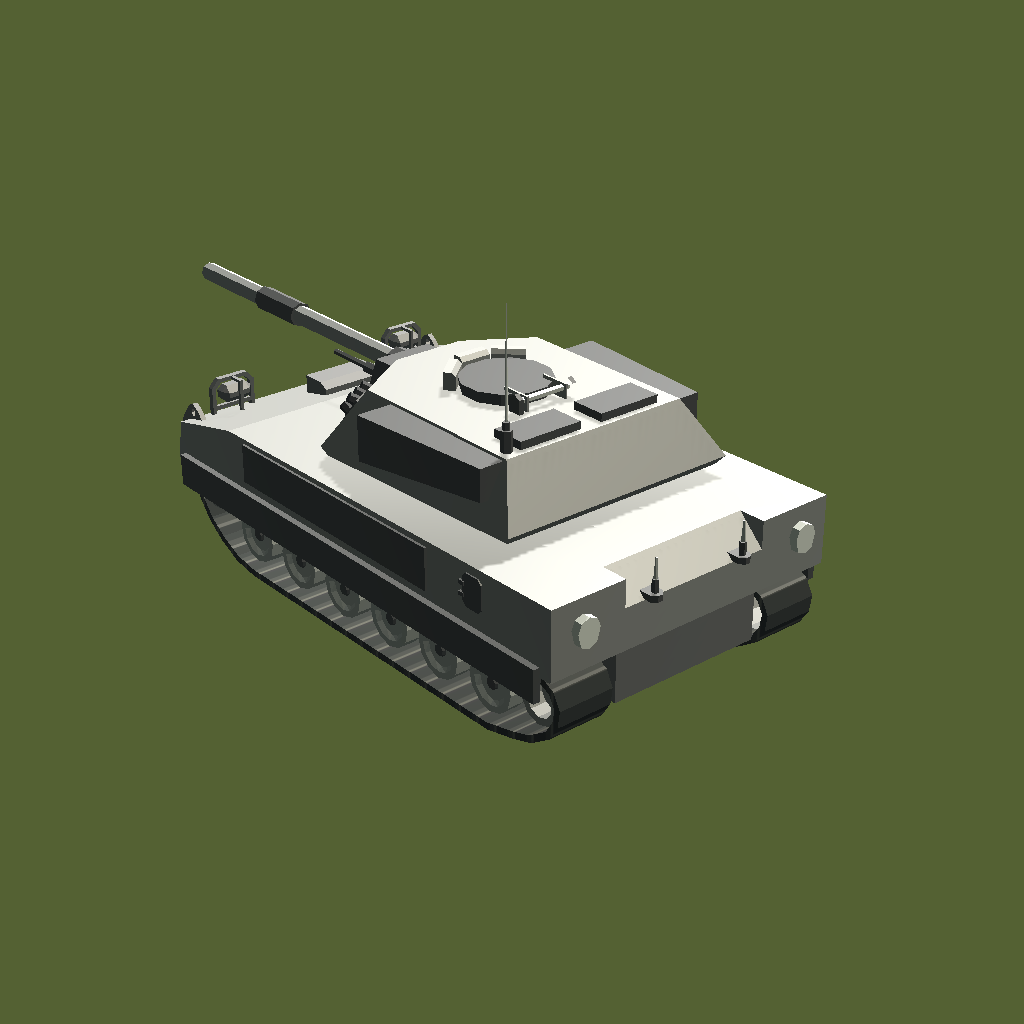
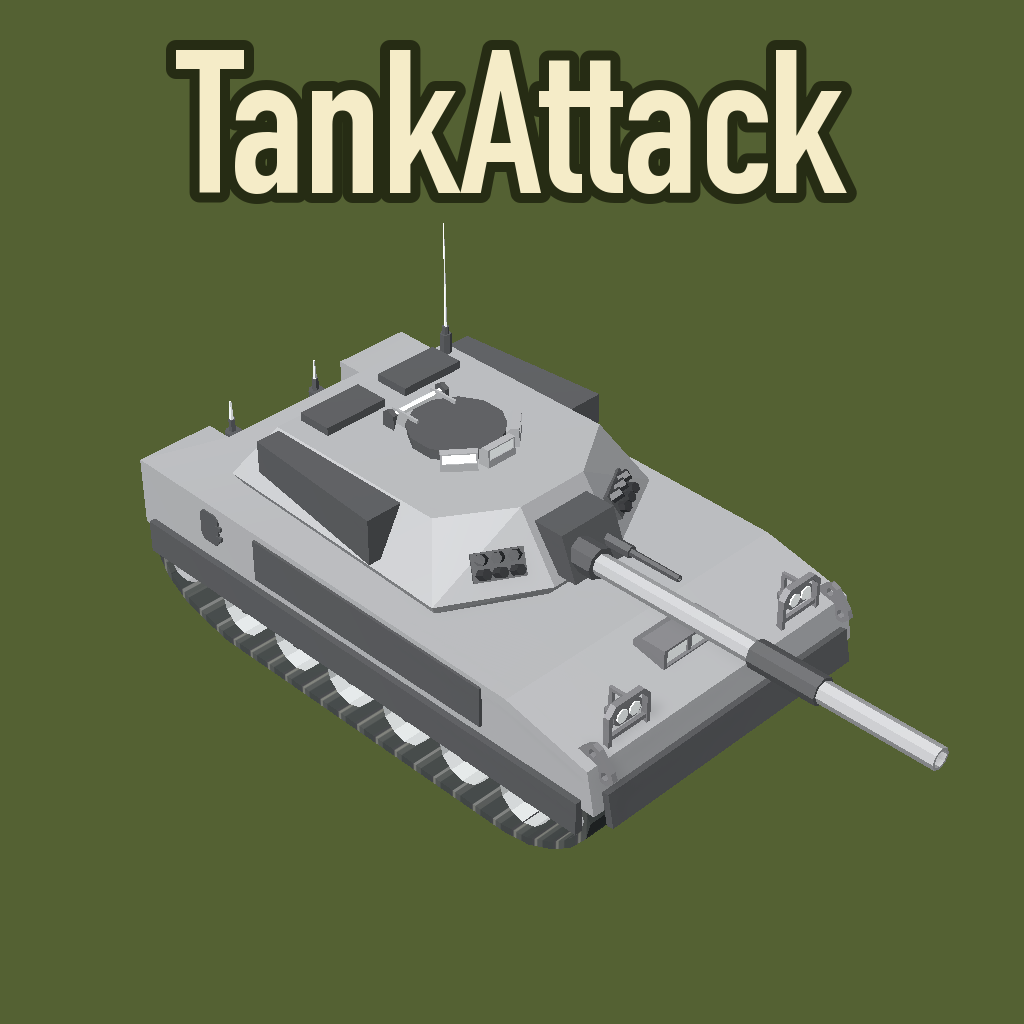
feat: 앱 아이콘을 4시 방향 탱크와 TankAttack 제목으로 교체, CLAUDE.md에 슬라이드 3번 변경 반영

diff --git a/CLAUDE.md b/CLAUDE.md
@@ -53,7 +53,7 @@ Unity 6 (`6000.5.10f1`) 탱크 슈터 게임. 게임 스크립트는 `Assets/02.
   - 자동 조준: `TurretCtrl`이 마우스 레이 둘레 `airAimRadius`(4m) 안의 공중 적을 찾으면 포탑을 그쪽으로 돌리고 `CannonCtrl.SetAutoTarget`으로 포신 각도를 자동으로 맞춘다 (현재 포탄이 중력을 받으면 `Cannon.GravityDrop`만큼 높여 잡는다). 헬기 조준과 지형 조준은 같은 `TurretCtrl.RotateToward`로 돈다. 공중 적을 벗어나면 휠 조작으로 돌아간다. 플레이어 탱크 포신 최대각은 45°다 (두 프리팹의 `CannonCtrl.maxAngle`).
 - **레이어**: `TurretCtrl`은 레이어 8 (`Terrain`)에만 레이캐스트한다 (`1 << 8`). 지형 레이어를 바꾸면 포탑 조준이 멈춘다.
 - **태그**: `Player` 태그를 `EnemyAI`와 `Item`이 사용한다. 플레이어 `Tank`에 이 태그가 있어야 한다.
-- **앱 아이콘**: `Assets/04.Images/UI/AppIcon.png` (Mk.1 탱크 렌더링)를 Default Icon과 Standalone (Windows) 아이콘 8개 크기 (1024~16)에 모두 지정했다 (`PlayerSettings.SetIcons(NamedBuildTarget.Standalone, ...)`). 설정은 `ProjectSettings.asset`에 저장되고, 제출용 Windows 실행 파일은 Windows PC에서 저장소를 클론해 빌드한다. Windows 빌드에서 아이콘이 나오는지는 아직 확인하지 못했다.
+- **앱 아이콘**: `Assets/04.Images/UI/AppIcon.png` (1024×1024, 올리브 배경에 4시 방향을 보는 Mk.1 탱크 렌더링, 위쪽에 `TankAttack` 제목. 제목은 렌더링 뒤 PIL로 `DIN Condensed Bold` 200pt, 크림색에 어두운 테두리로 그렸다)를 Default Icon과 Standalone (Windows) 아이콘 8개 크기 (1024~16)에 모두 지정했다 (`PlayerSettings.SetIcons(NamedBuildTarget.Standalone, ...)`). 설정은 `ProjectSettings.asset`에 저장되고, 제출용 Windows 실행 파일은 Windows PC에서 저장소를 클론해 빌드한다. Windows 빌드에서 아이콘이 나오는지는 아직 확인하지 못했다.
 - **GameManager**: `GameManager.instance` 싱글턴이 `playerHP`, 웨이브 진행, 씬 전환을 가진다. 씬 전환은 이름 문자열로 한다. `MainScene`에도 `GameManager` 오브젝트를 넣었다.
 - **엔딩 (`Ending_Win`, `Ending_Lose`)**: 씬마다 `EndingUI` (`win` 플래그) 오브젝트 하나뿐이고 화면은 `Build()`가 `Start`에서 코드로 만든다. 가운데 올리브 패널 (1100×760, 위아래 강조선), 헤더 아이콘, 제목 (88), 부제, 점수 (64, 0에서 올라가는 연출), 최고 기록 (40), `NEW RECORD!` (깜빡임), 버튼 둘 (다시 하기 → `MainScene`, 처음으로 → `IntroScene`)이다. 아이콘은 `headerIcon` (승리 `Mil_Trophy`, 패배 `Mil_Cancel`), `retryIcon` (`Mil_Restart`), `homeIcon` (`Mil_Home`) 필드에 씬에서 직접 연결한다. 하늘은 `skybox` 필드 (승리 `Epic_BlueSunset`, 패배 `Deep Dusk`)를 `RenderSettings.skybox`에 넣고 카메라를 Skybox 모드로 쓴다 (비우면 단색). 하늘 위에 어두운 덮개는 깔지 않는다 (가운데 패널만 어둡다). 점수는 `ScoreBoard` (`PlayerPrefs` `BestScore`)에서 읽는다. 편집 모드에서 `Build()`를 불러 캔버스를 Screen Space Camera로 바꾸고 `CanvasGroup.alpha`를 1로 둔 뒤 `Camera.Render`로 PNG를 찍어 레이아웃을 확인했다 (씬은 저장하지 않고 다시 연다).
 - **NavMesh (`MainScene`)**: `com.unity.ai.navigation` 2.0.16 패키지의 `NavMeshSurface`가 `NavMesh` 오브젝트에 붙어 있고, 데이터는 `Assets/01.Scenes/MainScene/NavMesh-NavMesh.asset`이다. 산이 가팔라서 에이전트 최대 경사를 기본 45°에서 60°로 올렸다 (`ProjectSettings/NavMeshAreas.asset`). 올린 뒤에야 `EnemySpawn_1~4`에서 `PlayerSpawn`까지 `PathComplete`가 나온다. 지형이나 건물을 바꾸면 `NavMeshSurface.BuildNavMesh()`로 다시 굽는다.
@@ -113,7 +113,7 @@ Unity 6 (`6000.5.10f1`) 탱크 슈터 게임. 게임 스크립트는 `Assets/02.
 
 - **구성**: 표지, 게임 기획, 기능 구현 여부 (✔/△), 목차, 섹션 1~4 (게임 흐름과 씬, 조작과 액션, 전투와 콘텐츠, UI와 부가 시스템), 섹션 5 "구현 방법 (주요 코드)" (코드 슬라이드: 이동, 조준, 레이저, 포탄 충돌, 근접 신관, 자주포 탄도, 웨이브, 공습, 적 AI, 점수). 적 6종은 슬라이드당 3종씩 2장이다. 표지와 섹션 구분 슬라이드는 `Epic_BlueSunset` 하늘 사진 배경이고 내용 슬라이드는 흰 배경이다.
 - **스크린샷**: 대부분 Unity 편집 모드에서 임시 `Camera.Render`로 찍은 PNG를 `upload_assets`로 `IMG_*` 프레임에 올린 것이다 (씬은 저장하지 않고 다시 연다). 플레이 화면이 필요한 탱크 선택과 HUD 슬라이드는 "Play 화면 캡처를 여기에 넣기" 빈 칸이다 (탱크 선택 UI는 편집 모드에서 카드가 안 만들어져 렌더링이 깨진다).
-- **슬라이드 3번 (과제 요구사항 구현 여부)**: 과제 조건 순서로 8항목 (1. Intro 씬, 2-1 배경, 2-2 플레이어 탱크, 2-3 적 탱크, 2-4 난이도 Wave, 2-5 아이템, 2-6 추가 기능, 3. Ending 씬)을 좌우 2열로 적었다. 사용자가 카드 배경 박스와 체크 아이콘을 지워서 텍스트만 왼쪽 정렬로 남아 있다.
+- **슬라이드 3번 (과제 요구사항 구현 여부)**: 과제 조건 순서로 8항목 (1. Intro 씬, 2-1 배경, 2-2 플레이어 탱크, 2-3 적 탱크, 2-4 난이도 Wave, 2-5 아이템, 2-6 추가 기능, 3. Ending 씬)을 좌우 2열로 적었다. 사용자가 카드 배경 박스와 체크 아이콘을 지워서 텍스트만 왼쪽 정렬로 남아 있다. 글자는 항목 제목 42, 설명 32이고 (제목 y 10, 설명 y 72), 항목 프레임 (700×125, 클립)은 x 304 / 1104 열에 y 260부터 190 간격으로 놓여 있다.
 - **슬라이드 25 (HUD)**: 왼쪽에 Play 화면 캡처 (`IMG_hud`, 1000×563, FIT이라 위아래 여백이 있다)와 번호 배지 ①~⑤, 그 아래 `HUDNote` (HUD 구성 3줄), 오른쪽에 같은 번호 카드 5장 (`HUDCard1~5`: 웨이브 정보, 공습·HP·가속, 포탄 버튼, 포탄 정보, 일시정지, 카드마다 확대 캡처. 5번은 `IMG_hud` 이미지를 CROP으로 잘랐다)이다.
 - **슬라이드 14 (공습)**: 공습이 떨어지는 장면 렌더링 (`IMG_airstrike_drop`)을 큰 이미지로 쓰고, 기존 Su-57 이미지는 오른쪽 아래에 작게 넣었다.
 - **슬라이드 17 (포탄 4종)**: 카드마다 탱크가 포탄을 쏘는 렌더링을 위쪽에 넣었다 (`ShellImage1~4`). 포탄 3종은 모델이 없어서 구체와 선으로 궤적을 흉내 냈다. 카드 높이는 680이다. 카드 아래쪽에 피해·반경, 쿨다운, 초당 피해, 일반 적 (HP 100) 격파 발수 4줄을 넣었다 (값은 두 탱크 프리팹의 `FireCannon.shells`). 포탄 수치를 바꾸면 이 슬라이드도 고친다.
